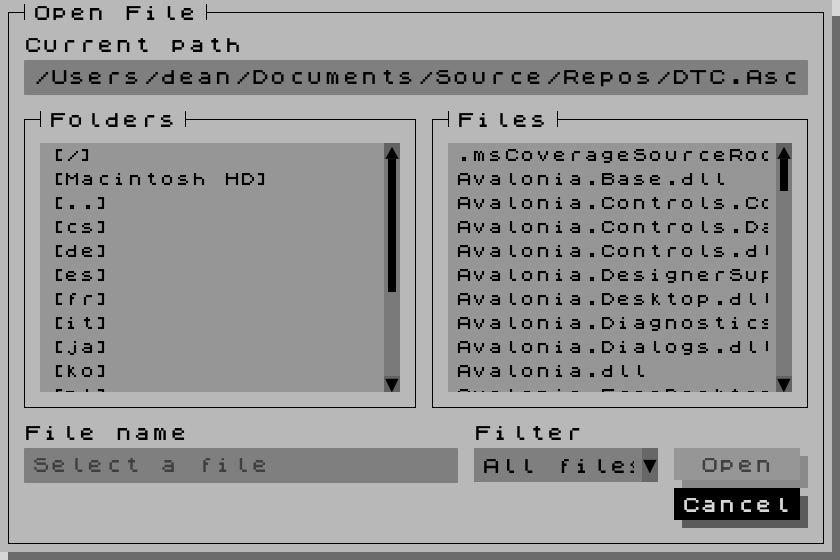
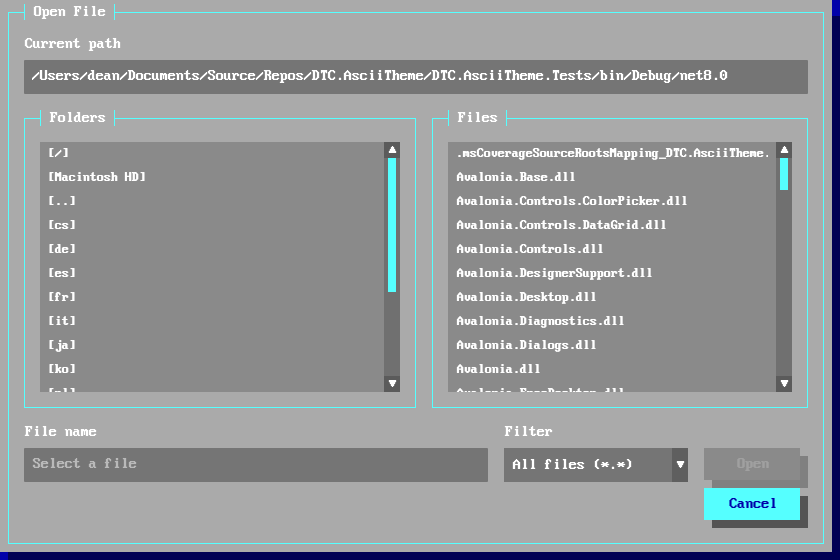
Feature: Add BBC and C64 retro themes

diff --git a/DTC.AsciiTheme.Tests/DemoScreenshotTests.cs b/DTC.AsciiTheme.Tests/DemoScreenshotTests.cs
@@ -80,6 +80,8 @@ public sealed class DemoScreenshotTests
                     (AsciiPalette.Green, "text-green.png"),
                     (AsciiPalette.Plasma, "text-plasma.png"),
                     (AsciiPalette.Grey, "text-grey.png"),
+                    (AsciiPalette.BBC, "text-bbc.png"),
+                    (AsciiPalette.C64, "text-c64.png"),
                     (AsciiPalette.ZX, "text-zx.png"),
                 };
 
@@ -92,6 +94,8 @@ public sealed class DemoScreenshotTests
                     await WaitForRenderAsync();
                     SaveScreenshot(window, fileName);
                 }
+
+                AsciiPaletteManager.Apply(Avalonia.Application.Current!, AsciiPalette.Blue);
 
                 var openFileDialog = new AsciiOpenFileDialogWindow(
                     "Open File",

diff --git a/DTC.AsciiTheme.Demo/MainWindow.axaml.cs b/DTC.AsciiTheme.Demo/MainWindow.axaml.cs
@@ -193,6 +193,10 @@ public partial class MainWindow : Window
 
     private void HandleThemeGreyClick(object sender, RoutedEventArgs e) => ApplyPalette(AsciiPalette.Grey);
 
+    private void HandleThemeBbcClick(object sender, RoutedEventArgs e) => ApplyPalette(AsciiPalette.BBC);
+
+    private void HandleThemeC64Click(object sender, RoutedEventArgs e) => ApplyPalette(AsciiPalette.C64);
+
     private void HandleThemeZxClick(object sender, RoutedEventArgs e) => ApplyPalette(AsciiPalette.ZX);
 
     private async void HandleAboutMenuClick(object sender, RoutedEventArgs e)

diff --git a/DTC.AsciiTheme/AsciiPaletteManager.cs b/DTC.AsciiTheme/AsciiPaletteManager.cs
@@ -47,6 +47,8 @@ public static class AsciiPaletteManager
             AsciiPalette.Green => "Green.axaml",
             AsciiPalette.Plasma => "Plasma.axaml",
             AsciiPalette.Grey => "Grey.axaml",
+            AsciiPalette.BBC => "BBC.axaml",
+            AsciiPalette.C64 => "C64.axaml",
             AsciiPalette.ZX => "ZX.axaml",
             _ => throw new ArgumentOutOfRangeException(nameof(palette), palette, null),
         };

diff --git a/DTC.AsciiTheme/AsciiPalette.cs b/DTC.AsciiTheme/AsciiPalette.cs
@@ -18,5 +18,7 @@ public enum AsciiPalette
     Green,
     Plasma,
     Grey,
+    BBC,
+    C64,
     ZX,
 }

diff --git a/README.md b/README.md
@@ -126,6 +126,8 @@ The base theme ships with a blue DOS-style palette by default, and also includes
 - `avares://DTC.AsciiTheme/Palettes/Green.axaml`
 - `avares://DTC.AsciiTheme/Palettes/Plasma.axaml`
 - `avares://DTC.AsciiTheme/Palettes/Grey.axaml`
+- `avares://DTC.AsciiTheme/Palettes/BBC.axaml`
+- `avares://DTC.AsciiTheme/Palettes/C64.axaml`
 - `avares://DTC.AsciiTheme/Palettes/ZX.axaml`
 
 Example:
@@ -164,6 +166,18 @@ The screenshots below all use the same `Text` tab content so the palette differe
 Simple light-grey retro palette with black text and strong inverse/highlight states.
 
 ![Grey palette screenshot](img/text-grey.png)
+
+### BBC
+
+Monochrome BBC-style palette using the Commodore bitmap font as a quick retro trial.
+
+![BBC palette screenshot](img/text-bbc.png)
+
+### C64
+
+Commodore-inspired palette using `C64 Pro Mono`.
+
+![C64 palette screenshot](img/text-c64.png)
 
 ### ZX
 
